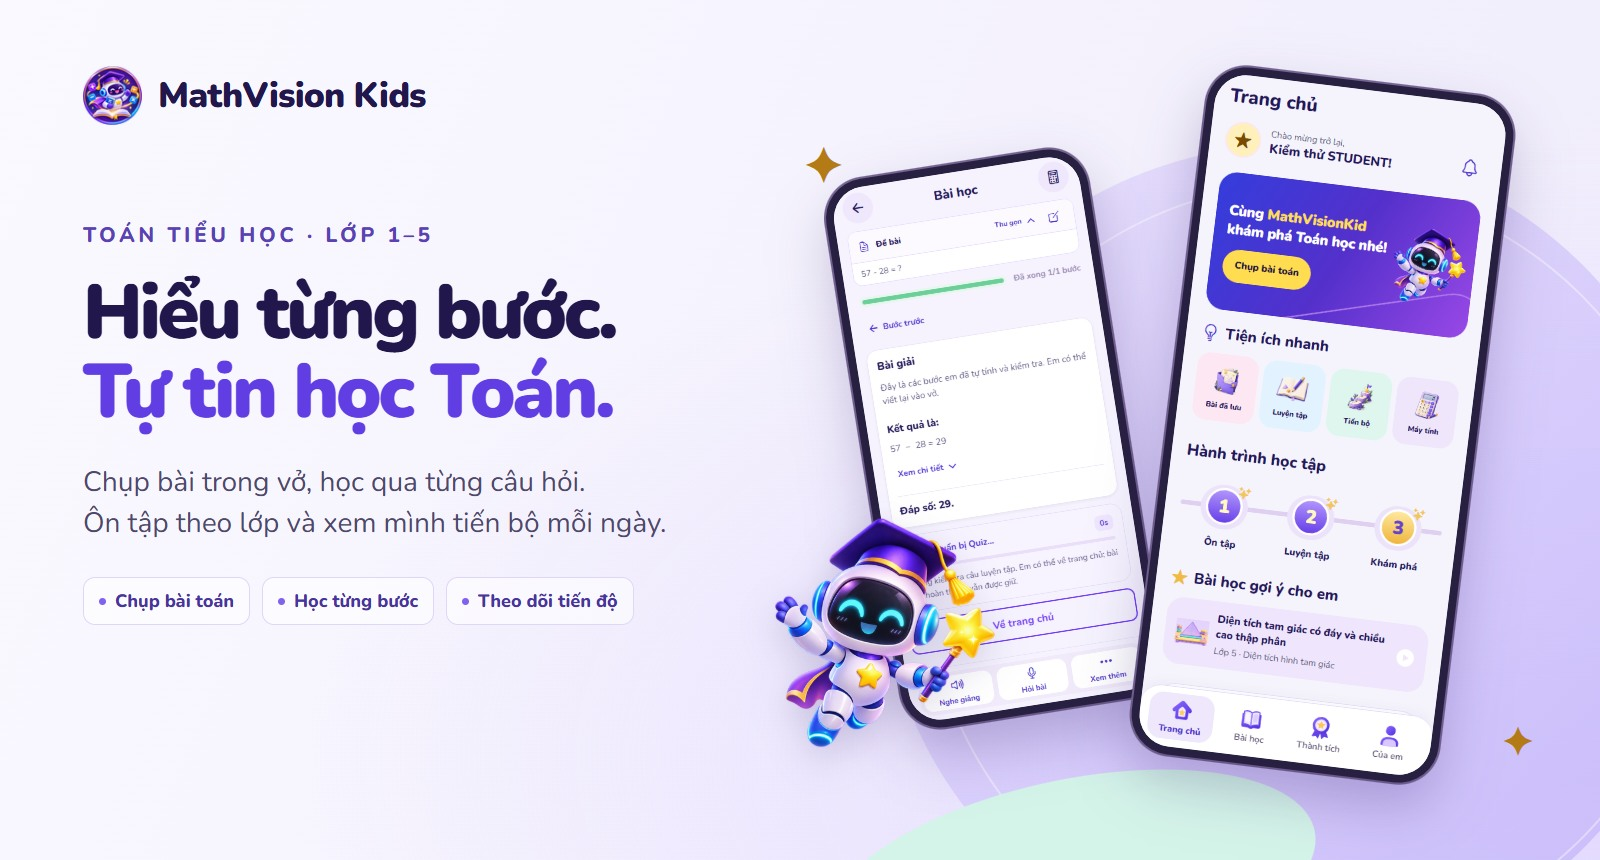
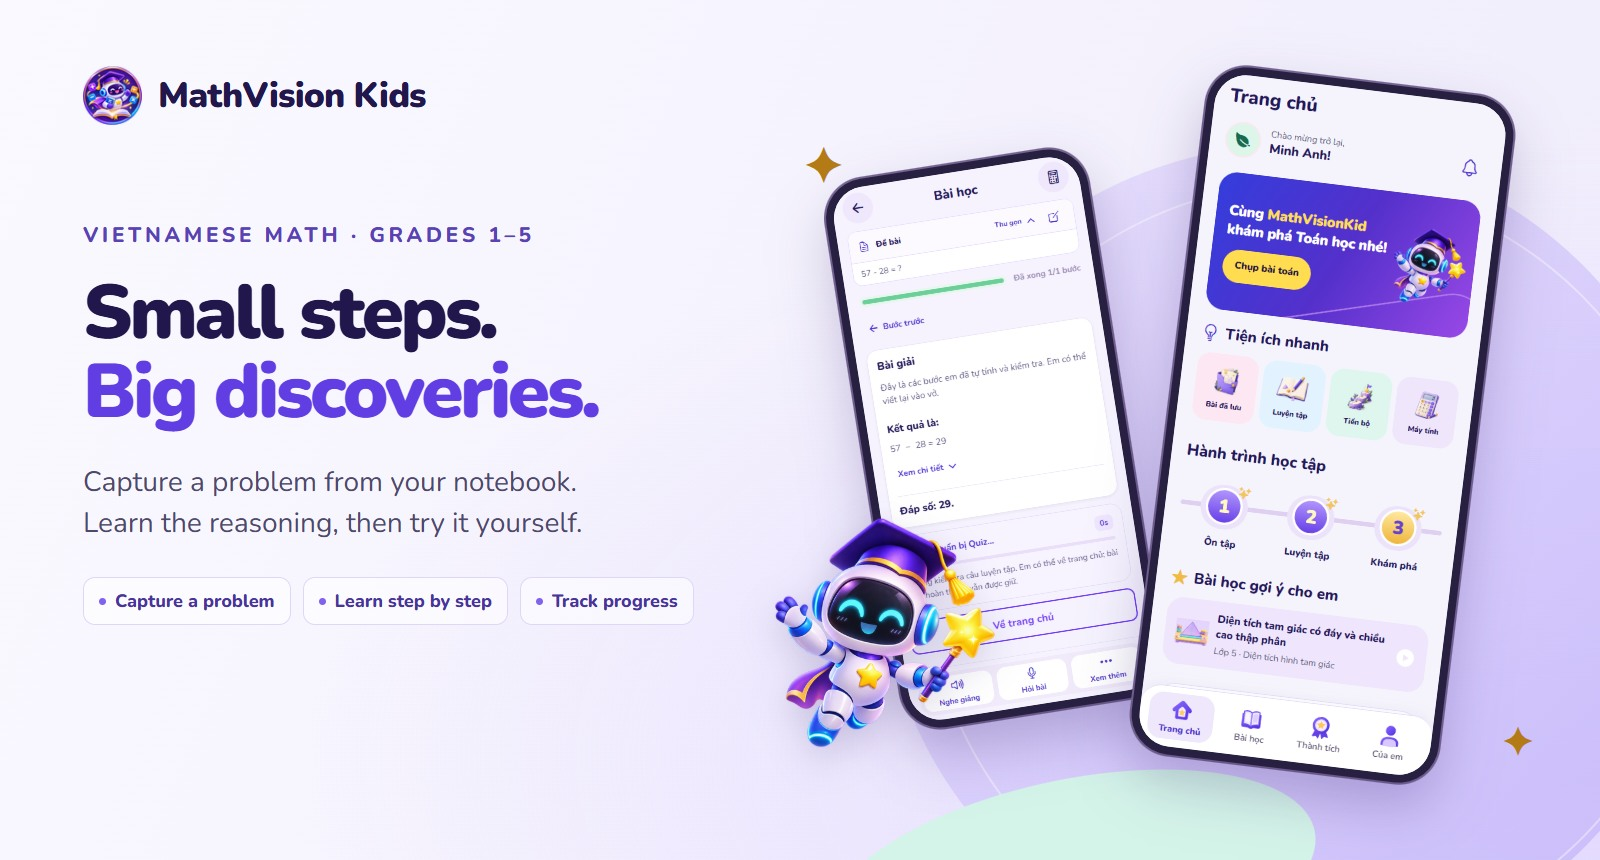
docs: show the student journey with real screenshots (#132)
* docs: present the student journey in English

* docs: replace fixture captures with real app screenshots

diff --git a/docs/media/showcase.html b/docs/media/showcase.html
@@ -1,7 +1,7 @@
-<!doctype html><html lang="vi">
+<!doctype html><html lang="en">
 <head>
 <meta charset="utf-8">
-<title>MathVision Kids · Ảnh bìa README</title>
+<title>MathVision Kids · Repository cover</title>
 <style>
  @font-face{font-family:Nunito;src:url(../../apps/portal-web/public/ui/Nunito-Regular.ttf);font-weight:400}
  @font-face{font-family:Nunito;src:url(../../apps/portal-web/public/ui/Nunito-ExtraBold.ttf);font-weight:800}
@@ -34,13 +34,13 @@
 <body>
  <div class="wash"></div><div class="orbit"></div><div class="mint"></div>
  <div class="brand"><img src="../../apps/portal-web/public/favicon-robot.png" alt="">MathVision Kids</div>
- <div class="copy"><div class="eyebrow">Toán tiểu học · Lớp 1–5</div>
- <h1>Hiểu từng bước.<br><span>Tự tin học Toán.</span></h1>
- <p>Chụp bài trong vở, học qua từng câu hỏi.<br>Ôn tập theo lớp và xem mình tiến bộ mỗi ngày.</p>
- <div class="features"><span>Chụp bài toán</span><span>Học từng bước</span><span>Theo dõi tiến độ</span></div>
+ <div class="copy"><div class="eyebrow">Vietnamese math · Grades 1–5</div>
+ <h1>Small steps.<br><span>Big discoveries.</span></h1>
+ <p>Capture a problem from your notebook.<br>Learn the reasoning, then try it yourself.</p>
+ <div class="features"><span>Capture a problem</span><span>Learn step by step</span><span>Track progress</span></div>
  </div>
- <div class="phone lesson"><img src="screenshots/student-lesson-current.png" alt="Giao diện bài học của học sinh"></div>
- <div class="phone home"><img src="screenshots/student-home-current.png" alt="Trang chủ học sinh với nút Chụp bài toán"></div>
+ <div class="phone lesson"><img src="screenshots/student-lesson-current.png" alt="Student lesson screenshot"></div>
+ <div class="phone home"><img src="screenshots/student-home-current.png" alt="Student Home screenshot with the camera action"></div>
  <img class="mascot" src="../../apps/portal-web/public/ui/robot-mascot.webp" alt="">
  <span class="spark one">✦</span><span class="spark two">✦</span></body>
 </html>

diff --git a/README.md b/README.md
@@ -1,12 +1,12 @@
 <div align="center">
 
-![MathVision Kids — Hiểu từng bước, tự tin học Toán. Hai màn hình giới thiệu trang chủ học sinh và bài học.](docs/media/readme-hero.jpg)
+![MathVision Kids — Small steps. Big discoveries. Student Home and a completed lesson.](docs/media/readme-hero.jpg)
 
 # MathVision Kids
 
 ### From a notebook photo to a lesson the student can work through.
 
-A Vietnamese math learning app for grades 1–5. Students can photograph a problem, check the recognized text, and work through the reasoning with hints and narration. Families can follow learning activity and set time limits in Góc phụ huynh.
+A Vietnamese math learning app for grades 1–5. Students can photograph a problem, check the recognized text, and work through the reasoning with hints and narration. Families can follow learning activity and set time limits in Parent Mode.
 
 ![Expo 58](https://img.shields.io/badge/Expo-58-18164C?style=flat-square&logo=expo&logoColor=white)
 ![React Native](https://img.shields.io/badge/React_Native-0.88-7055F6?style=flat-square&logo=react&logoColor=white)
@@ -15,7 +15,7 @@ A Vietnamese math learning app for grades 1–5. Students can photograph a probl
 [![License: MIT](https://img.shields.io/badge/License-MIT-7055F6?style=flat-square)](LICENSE)
 [![Catalog Bot](https://github.com/NV-DuyManh/MathVisionKid/actions/workflows/lesson-catalog.yml/badge.svg)](https://github.com/NV-DuyManh/MathVisionKid/actions/workflows/lesson-catalog.yml)
 
-[Open MathVision Kids](https://edu.mathvision.online) · [Screenshots](#see-it-in-action) · [Run locally](#run-it-locally) · [Hướng dẫn tiếng Việt](docs/HUONG_DAN_CAI_DAT.md) · [Architecture](docs/ARCHITECTURE_LOCAL_RUNTIME.md)
+[Open MathVision Kids](https://edu.mathvision.online) · [Screenshots](#see-it-in-action) · [Run locally](#run-it-locally) · [Vietnamese setup](docs/HUONG_DAN_CAI_DAT.md) · [Architecture](docs/ARCHITECTURE_LOCAL_RUNTIME.md)
 
 </div>
 
@@ -31,34 +31,26 @@ Students can start with a photographed question, review their own handwritten so
 
 ## See it in action
 
-<p align="center">
-  <a href="docs/media/screenshots/portal-login-current.jpg"><img src="docs/media/screenshots/portal-login-current.jpg" width="860" alt="MathVision Kids web sign-in with the robot mascot, email form and Google sign-in" /></a><br />
-  <strong>Sign in to MathVision Kids</strong><br />
-  Use email and password or continue with Google on the public website.
-</p>
+### The student journey
 
 <table>
   <tr>
-    <td align="center" width="33%"><a href="docs/media/screenshots/student-lesson-current.png"><img src="docs/media/screenshots/student-lesson-current.png" width="240" alt="Student Web lesson with the original question, checked solution and narration controls" /></a><br /><strong>Work through a lesson</strong><br />Revisit the steps and listen to the explanation.</td>
-    <td align="center" width="33%"><a href="docs/media/screenshots/student-home-current.png"><img src="docs/media/screenshots/student-home-current.png" width="240" alt="Student home with the robot, camera shortcut and learning activities" /></a><br /><strong>Start on Student Home</strong><br />Capture a problem, practice, or revisit saved work.</td>
-    <td align="center" width="33%"><a href="docs/media/screenshots/parent-overview-current.png"><img src="docs/media/screenshots/parent-overview-current.png" width="240" alt="Parent overview with learning activity, streak, usage time and a limits tab" /></a><br /><strong>Góc phụ huynh</strong><br />Review progress and manage time limits.</td>
+    <td align="center" width="33%"><a href="docs/media/screenshots/student-home-current.png"><img src="docs/media/screenshots/student-home-current.png" width="230" alt="Student Home with the camera shortcut and learning activities" /></a><br /><strong>1. Start on Student Home</strong><br />Open the camera, practice by topic, or resume saved work.</td>
+    <td align="center" width="33%"><a href="docs/media/screenshots/student-photo-current.png"><img src="docs/media/screenshots/student-photo-current.png" width="230" alt="Worksheet photo with the crop and rotation controls" /></a><br /><strong>2. Prepare the photo</strong><br />Cover personal details and crop to the problem before review.</td>
+    <td align="center" width="33%"><a href="docs/media/screenshots/student-lesson-current.png"><img src="docs/media/screenshots/student-lesson-current.png" width="230" alt="Completed student lesson with the original question, answer, and narration controls" /></a><br /><strong>3. Work through the lesson</strong><br />Try the steps, check the result, and listen to the explanation.</td>
   </tr>
 </table>
 
-<details>
-<summary><strong>More screenshots: photo review, the practice library and a completed challenge</strong></summary>
+### Practice and follow progress
 
 <table>
   <tr>
-    <td align="center" width="33%"><a href="docs/media/screenshots/problem-android.png"><img src="docs/media/screenshots/problem-android.png" width="250" alt="Owner supplied Android screenshot of a photographed problem and editable transcription" /></a><br /><strong>Photo → readable problem</strong></td>
-    <td align="center" width="33%"><a href="docs/media/screenshots/lessons-web.jpg"><img src="docs/media/screenshots/lessons-web.jpg" width="250" alt="Grade five practice problems in the lesson library" /></a><br /><strong>Practice by grade</strong></td>
-    <td align="center" width="33%"><a href="docs/media/screenshots/student-challenge-current.png"><img src="docs/media/screenshots/student-challenge-current.png" width="250" alt="Completed math challenge with earned stars and the next challenge button" /></a><br /><strong>Try a short challenge</strong></td>
+    <td align="center" width="50%"><a href="docs/media/screenshots/student-challenge-current.png"><img src="docs/media/screenshots/student-challenge-current.png" width="230" alt="Completed math challenge with earned stars and the next challenge button" /></a><br /><strong>4. Try a short challenge</strong><br />Practice the skill and review the answer.</td>
+    <td align="center" width="50%"><a href="docs/media/screenshots/parent-overview-current.png"><img src="docs/media/screenshots/parent-overview-current.png" width="230" alt="Parent Mode overview with learning activity, streak, usage time, and daily limit" /></a><br /><strong>5. Review progress in Parent Mode</strong><br />See learning activity and set time limits from the student profile.</td>
   </tr>
 </table>
 
-</details>
-
-The sign-in screenshot was captured on the public website on **25 November 2026**. Student and parent screenshots show browser sessions with test data at a phone-sized viewport. The Android photo-review image was supplied by the project owner. Device frames on the cover are presentation artwork. See the [demo walkthrough](docs/DEMO_GUIDE.md).
+These screenshots come from the running app on a phone-sized browser viewport. Minh Anh is a demo account, and the photo step uses an owner-supplied handwritten problem. See the [demo walkthrough](docs/DEMO_GUIDE.md).
 
 ## From photo to learning
 
@@ -79,10 +71,10 @@ An isolated calculation can be checked arithmetically. Deciding whether an entir
 ## What is inside
 
 - **Student app:** direct camera access, photo import, crop and rotation controls, privacy masking, editable reading results, guided lessons, saved work, and learning progress.
-- **Góc phụ huynh:** open it from the student's profile to review activity and usage, or set daily and game time limits. The area is protected by a PIN, with email verification for setup and recovery where mail delivery is configured.
+- **Parent Mode:** open it from the student's profile to review activity and usage, or set daily and game time limits. The area is protected by a PIN, with email verification for setup and recovery where mail delivery is configured.
 - **Account access:** sign in with email and password or Google on Portal. Password recovery uses a verification code sent to the registered email address.
 - **Handwriting tools:** line localization, per-line Vietnamese OCR, review of uncertain readings, and optional cloud assistance.
-- **Practice library:** grade-based activities, including topics labeled Kết Nối Tri Thức and Cánh Diều. This is a practice collection, not a claim of full textbook coverage or publisher affiliation.
+- **Practice library:** browse exercises by grade and topic, then start a guided lesson from the selected problem.
 - **Teacher workspace:** classes, assignments, submission batches, and review workflows.
 - **Admin workspace:** role-based management through the business API.
 - **Catalog Bot:** reuses checked lessons and valid speech privately, with automated storage checks and a visible [GitHub Actions report](https://github.com/NV-DuyManh/MathVisionKid/actions/workflows/lesson-catalog.yml). Open `RUN_CATALOG_BOT.bat` for a read-only snapshot of this machine's catalog; see [catalog details and limits](catalog/README.md).
@@ -121,7 +113,7 @@ The local Portal also opens the shared Student interface at `http://localhost:51
 
 The root launchers have separate purposes: `RUN_MATHVISION.bat` runs the local app, `STOP_MATHVISION.bat` stops it, `RUN_CATALOG_BOT.bat` audits the lesson catalog, and `DEPLOY_WEB.bat` publishes the configured public trial. Maintenance commands live in `scripts/`; their PowerShell implementations live in `scripts/dev/`.
 
-For phone setup, development accounts, model files, and configuration, follow [English setup](docs/LOCAL_SETUP.md) or [hướng dẫn tiếng Việt](docs/HUONG_DAN_CAI_DAT.md). For errors, see [troubleshooting](docs/TROUBLESHOOTING.md).
+For phone setup, development accounts, model files, and configuration, follow [English setup](docs/LOCAL_SETUP.md) or [Vietnamese setup](docs/HUONG_DAN_CAI_DAT.md). For errors, see [troubleshooting](docs/TROUBLESHOOTING.md).
 
 ## Technology stack
 
@@ -170,7 +162,7 @@ MathVisionKid/
 
 | I want to… | Read this |
 | :--- | :--- |
-| Install and run the project | [Local setup](docs/LOCAL_SETUP.md) · [Tiếng Việt](docs/HUONG_DAN_CAI_DAT.md) |
+| Install and run the project | [Local setup](docs/LOCAL_SETUP.md) · [Vietnamese setup](docs/HUONG_DAN_CAI_DAT.md) |
 | Deploy the web workspaces | [Vercel and production setup](docs/PRODUCTION_DEPLOYMENT.md) · [API/OCR trial on your PC](docs/PC_PREVIEW_DEPLOYMENT.md) |
 | Clone on another computer or understand the shared link | [Clone and hosting behavior](docs/CLONE_AND_HOSTING.md) · [Free cloud trial](docs/FREE_CLOUD_DEPLOYMENT.md) |
 | Review the shared student website | [Student web parity and verification (local archive)](report/README.md#local-archive) (`student-web-parity-2026-10-09.md`) |

diff --git a/docs/media/README.md b/docs/media/README.md
@@ -5,7 +5,7 @@ These assets support the repository README and documentation. They contain real 
 | Asset | Capture / origin |
 | :--- | :--- |
 | `readme-hero.jpg` | 1600 × 860 cover rendered from `showcase.html` |
-| `screenshots/*-current.*` | November 2026 Portal, Student Web and Parent Mode screens. Authenticated screenshots use test data. |
+| `screenshots/*-current.*` | November 2026 Student Web and Parent Mode screens. The student profile uses sample data. |
 | `screenshots/*-web.jpg` | Student web preview at 390 × 844 on 5 October 2026 |
 | `screenshots/problem-android.png` | Original Android screenshot supplied by the project owner |
 
